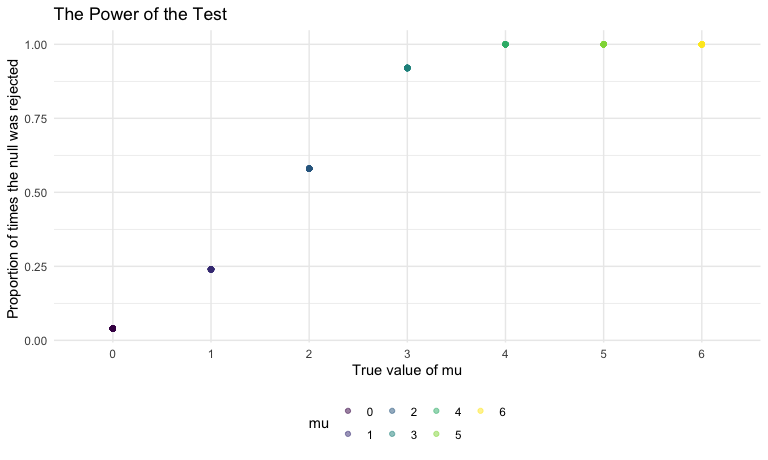
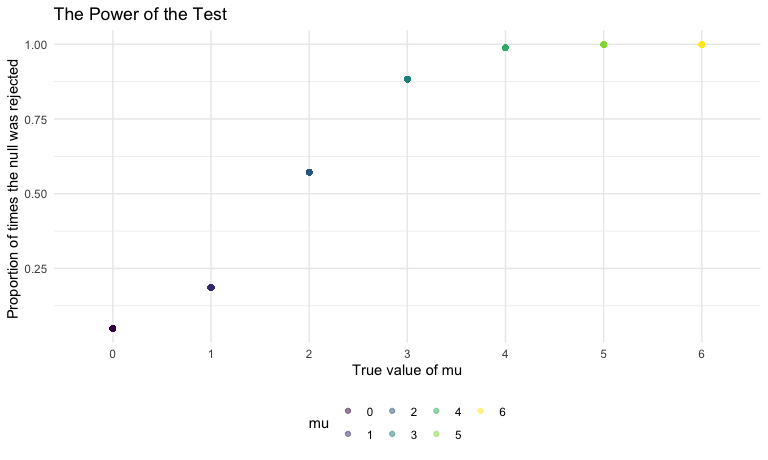
Finshed draft

diff --git a/p8105_hw5_cl4044.md b/p8105_hw5_cl4044.md
@@ -152,7 +152,7 @@ lda_df = path_df %>%
   mutate(arm_id = str_c(arm, id, sep= "_"))
 ```
 
-Make a spaghetti plot showing observations on each subject over time
+Make a spaghetti plot showing observations on each subject over time.
 
 ``` r
 lda_df %>%
@@ -170,15 +170,15 @@ lda_df %>%
 
 <img src="p8105_hw5_cl4044_files/figure-gfm/unnamed-chunk-9-1.png" width="90%" />
 
-According to the spaghetti plot above, the observation values of
-participants in the control group overall stay the same over 8 weeks.
-The observation values of participants in the experimental group
-increased over 8 weeks
+According to the spaghetti plot above, participants’ observation values
+in the control group stay the same over eight weeks. The observation
+values of participants in the experimental group increased over eight
+weeks.
 
 ## Problem 3
 
-Implement a `t.test` function that takes \(\mu\) and returns the result
-of t test.
+Implement a `t.test` function that takes mu and returns the result of
+t-test.
 
 ``` r
 sim_t_test = function(n = 30, mu = 0, sigma = 5){
@@ -196,14 +196,14 @@ sim_t_test = function(n = 30, mu = 0, sigma = 5){
 }
 ```
 
-Repeat the t test for 5000 times for \(\mu=\{0,1,2,3,4,5,6\}\).
+Repeat the t test for 5000 times for mu = {0,1,2,3,4,5,6}.
 
 ``` r
 sim_res = 
   tibble(
     mu = c(0:6)
     ) %>%
-  mutate(outputs = map(.x = mu, ~rerun(50, sim_t_test(mu = .x))),
+  mutate(outputs = map(.x = mu, ~rerun(5000, sim_t_test(mu = .x))),
          estimate = map(outputs, bind_rows),
          mu = as.factor(mu)) %>%
   unnest(estimate) %>%
@@ -211,8 +211,7 @@ sim_res =
 ```
 
 Make a plot showing the proportion of times the null was rejected (the
-power of the test) on the y axis and the true value of \(\mu\) on the x
-axis.
+power of the test) on the y axis and the true value of mu on the x axis.
 
 ``` r
 sim_res %>%
@@ -229,6 +228,59 @@ sim_res %>%
 
 <img src="p8105_hw5_cl4044_files/figure-gfm/unnamed-chunk-12-1.png" width="90%" />
 
-According to the plot above, I find that as the true value of \(\mu\)
-further away from 0, the power of the test increases and eventually
-approaches 1.
+According to the plot above, I find that as the true value of mu further
+away from 0, the power of the test increases and eventually approaches
+1.
+
+Make a plot showing the average estimate of mu\_hat on the y axis and
+the true value of mu on the x axis.
+
+``` r
+average_mu =
+  sim_res %>%
+  group_by(mu) %>%
+  mutate(
+    mu_bar_estimate = mean(mu_hat)
+  ) %>%
+  ggplot(aes(x = mu, y = mu_bar_estimate, color = mu))+
+  geom_point(alpha = 0.5) +
+  ggtitle("Estimate of mu_hat versus the true mean")+
+  ylab("Average estimate of mu_hat")+
+  xlab("True value of mu")
+```
+
+Make a second plot the average estimate of mu\_hat only in samples for
+which the null was rejected on the y axis and the true value of mu on
+the x axis.
+
+``` r
+rej_mu = 
+  sim_res %>%
+  group_by(mu) %>%
+  filter(p_val < 0.05) %>%
+  mutate(
+    mu_bar_estimate = mean(mu_hat)
+  ) %>%
+  ggplot(aes(x = mu, y = mu_bar_estimate, color = mu))+
+  geom_point(alpha = 0.5) + 
+  ggtitle("Estimate of rejected mu_hat versus the true mean")+
+  ylab("Average estimate of rejected mu_hat")+
+  xlab("True value of mu")
+```
+
+``` r
+average_mu + rej_mu
+```
+
+<img src="p8105_hw5_cl4044_files/figure-gfm/unnamed-chunk-15-1.png" width="90%" />
+
+According to the plots above, as for mu = {4,5,6}, the sample averages
+of mu\_hat across tests for which the null is rejected approximately
+equal to mu’s true value. Because most of the test conclusions of these
+the mus that far away from 0 are rejecting the null. As for mu =
+{0,1,2,3}, the sample averages of mu\_hat across tests for which the
+null is rejected are different from the true value of mu. Because in
+these mus that are closer to the null, only some extreme cases rejected
+the null. Thus, as mu’s true value goes further away from the null, the
+smaller difference between the sample average of mu\_hat̂ which the null
+is rejected and the true value of mu.
